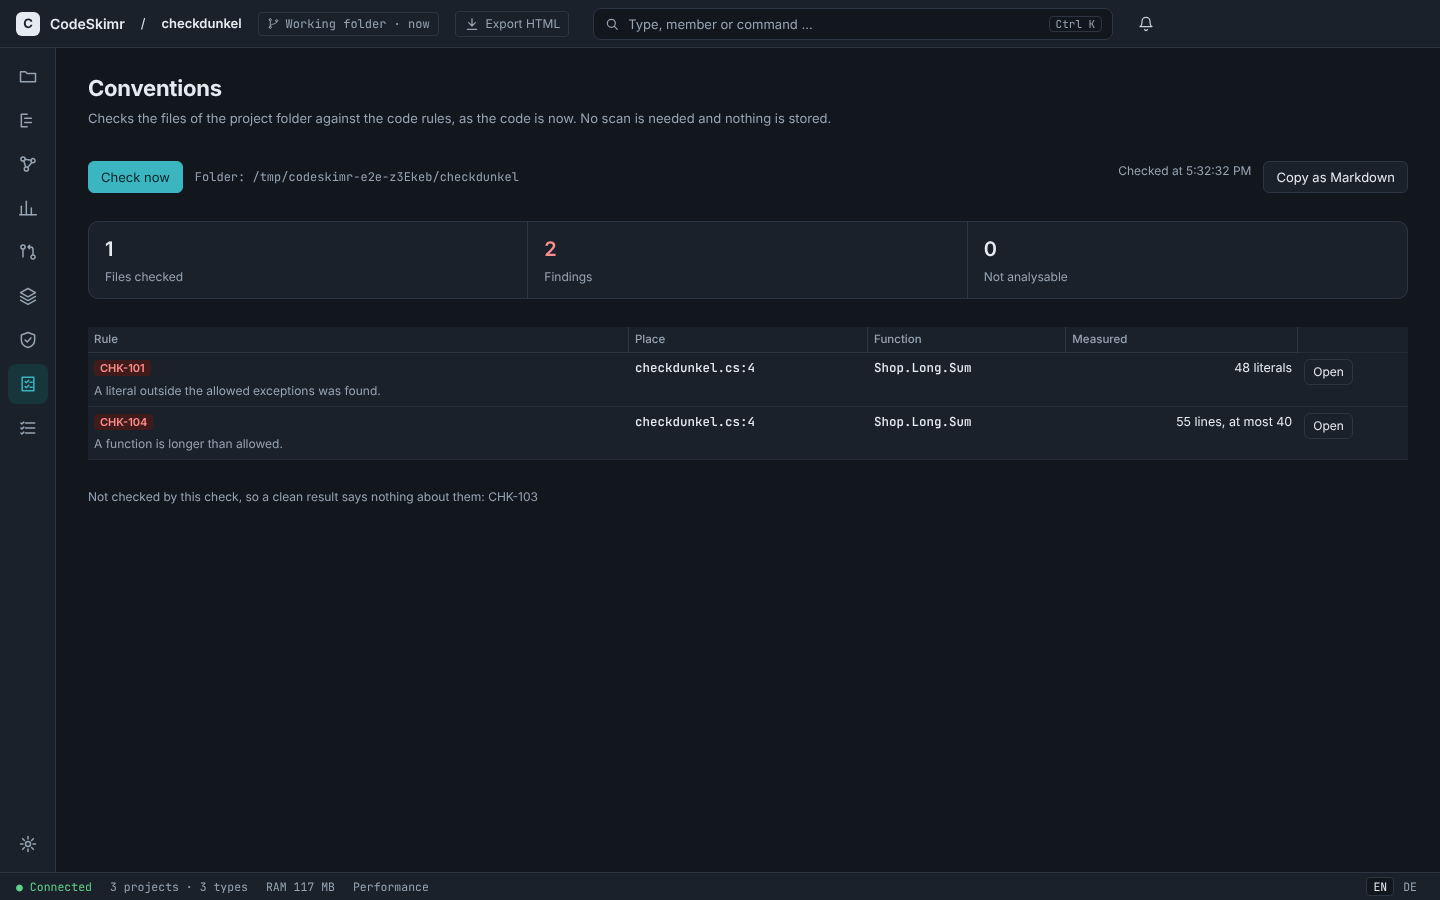
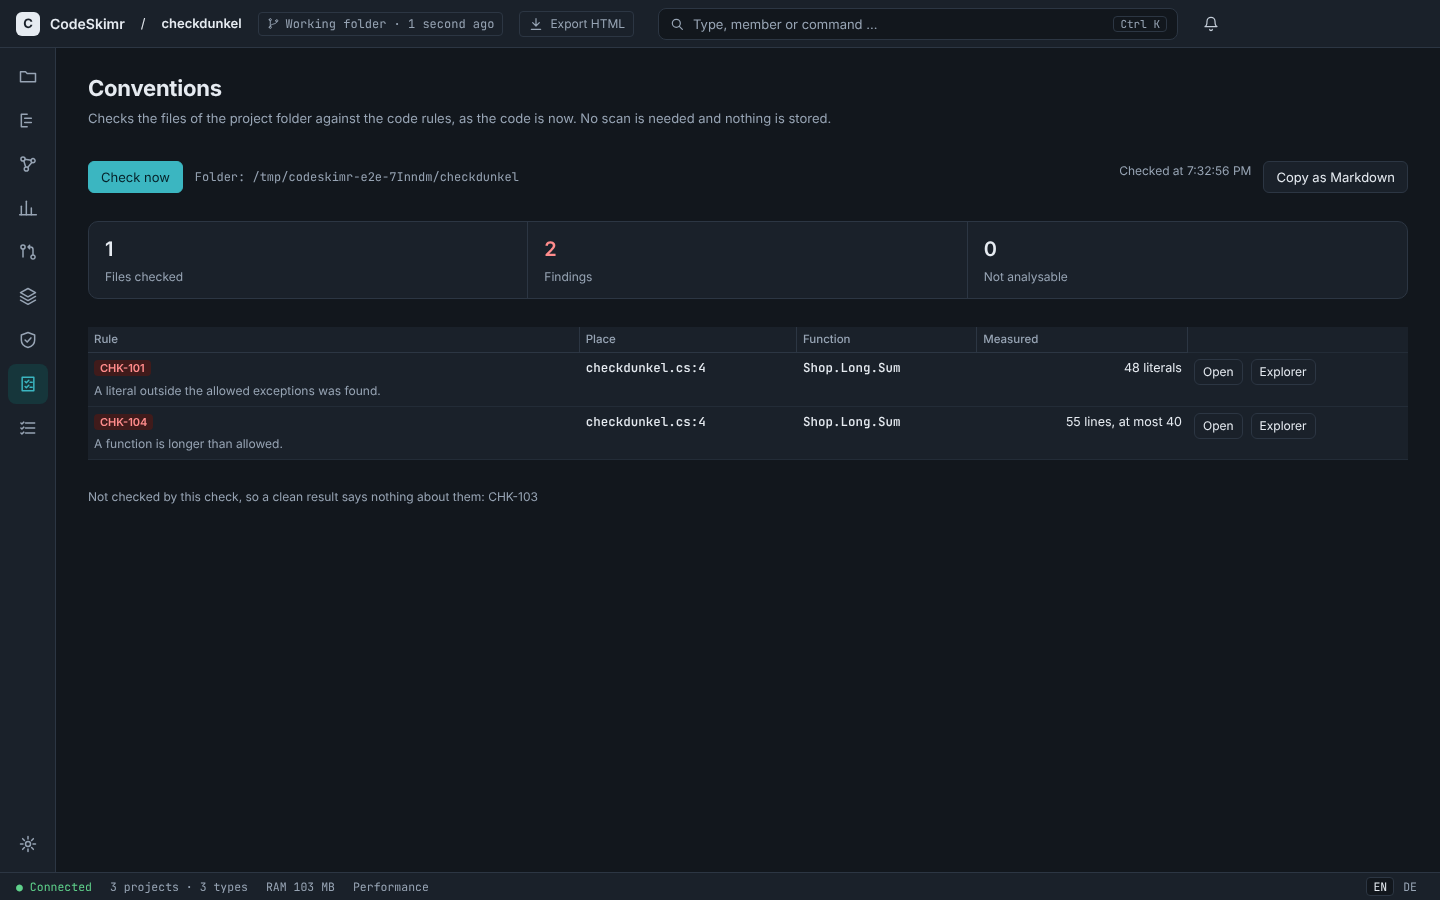
feat(ui): show the function of a convention finding in the explorer (#840)
<!-- claude-projects-attribution: {"github_login":"stacknoise"} -->
_Requested by **Anton** · [project
thread](https://claude.ai/code/project/chan_01BurfeyeHWcU615RsoB5poQ?thread=cmsg_01BurfeyeHWcU615RsoB5poQGk5hcRZr3DZwQZ8yi5fn66)_

## Was ändert sich?

Auf der Seite „Konventionen“ hat jeder Fund neben „Öffnen“ jetzt den
Knopf „Explorer“, der die Funktion im Explorer zeigt. Kennt der letzte
Scan die Funktion nicht (zum Beispiel in einer Datei, die nach dem Scan
geschrieben wurde), ist der Knopf ausgegraut, mit Tooltip („Nicht im
letzten Scan … Neu scannen“). Das ist die Fortsetzung von #835 (Seite
„Regeln“).

## Wie?

- `conventions.check` ergänzt jeden Fund um `symbol_ref` (Id und Art des
Symbols mit demselben qualifizierten Namen im neuesten Scan, sonst
`null`). Die Prüfung liest weiterhin die Dateien frisch; nur die
Zuordnung kommt aus dem Index, über dieselbe Funktion wie die Seite
„Regeln“ (`rules_symbols::resolve`).
- Der Sprung nutzt `showInExplorer` aus #835. Keine neue Abhängigkeit,
kein neuer Befehl.
- Texte in de und en, Handbuch (de/en) ergänzt.

## Grenze

Die Zuordnung geht über den qualifizierten Namen. Bei überladenen
Funktionen gleichen Namens zeigt der Explorer die mit der niedrigsten
Id.

## Geprüft

Zwei Rust-Tests (Fund in gescannter Datei mit Symbol, in neuer Datei
ohne), Web-Tests (932 grün), tsc, rustfmt, clippy.

---
_Generated by [Claude Code](https://claude.ai/code)_

---------

diff --git a/web/src/features/conventions/ConventionsScreen.tsx b/web/src/features/conventions/ConventionsScreen.tsx
@@ -12,6 +12,7 @@ import { ErrorDetails } from "../../shared/ui/ErrorDetails";
 import { Pill } from "../../shared/ui/Pill";
 import { TONE } from "../../shared/ui/consts";
 import { openPlaceInEditor } from "../explorer/editor";
+import { showInExplorer } from "../rules/jump";
 import { SOURCE_KIND } from "../projects/consts";
 import { count } from "../projects/format";
 import { projects } from "../projects/projects";
@@ -102,6 +103,32 @@ function OpenButton(props: { project: number; finding: Finding }) {
   );
 }
 
+/** The button that shows the function of a finding in the explorer. It is off if the last scan
+ * does not know the function, and says why. */
+function ExplorerButton(props: { project: number; finding: Finding }) {
+  const symbol = () => props.finding.symbol_ref;
+  return (
+    <button
+      type="button"
+      class={styles.small}
+      disabled={symbol() === null}
+      title={t(
+        symbol() === null
+          ? I18N_KEYS.CONVENTIONS_EXPLORER_GONE
+          : I18N_KEYS.CONVENTIONS_EXPLORER_HINT,
+      )}
+      onClick={() => {
+        const found = symbol();
+        if (found !== null) {
+          void showInExplorer(props.project, props.finding.symbol, found);
+        }
+      }}
+    >
+      {t(I18N_KEYS.CONVENTIONS_EXPLORER)}
+    </button>
+  );
+}
+
 function Row(props: { project: number; finding: Finding }) {
   return (
     <tr>
@@ -115,7 +142,10 @@ function Row(props: { project: number; finding: Finding }) {
       <td class={styles.mono}>{props.finding.symbol}</td>
       <td class={styles.num}>{measureText(props.finding, PLACE_SEPARATOR)}</td>
       <td>
-        <OpenButton project={props.project} finding={props.finding} />
+        <div class={styles.rowActions}>
+          <OpenButton project={props.project} finding={props.finding} />
+          <ExplorerButton project={props.project} finding={props.finding} />
+        </div>
       </td>
     </tr>
   );

diff --git a/web/src/features/conventions/ConventionsScreen.test.tsx b/web/src/features/conventions/ConventionsScreen.test.tsx
@@ -14,6 +14,7 @@ vi.mock("../../shared/editor/editor", async (original) => ({
 
 import { setLanguage } from "../../shared/i18n/i18n";
 import { openProject } from "../../shared/project/active";
+import { pendingFocus } from "../../shared/navigation/navigation";
 import { answer, fetchMock, useServerSession } from "../../tests/commands";
 import { ConventionsScreen } from "./ConventionsScreen";
 import { resetConventions } from "./conventions";
@@ -41,6 +42,7 @@ function finding(over: Partial<Finding>): Finding {
     literals: null,
     duplicate_of: null,
     similarity_percent: null,
+    symbol_ref: null,
     ...over,
   };
 }
@@ -141,6 +143,23 @@ describe("the screen Conventions", () => {
     await check();
     fireEvent.click(screen.getAllByRole("button", { name: "Open" })[0] as HTMLElement);
     expect(open).toHaveBeenCalledWith("vscode://file/work/app/src/a.rs:10");
+  });
+
+  it("shows the function of a finding in the explorer and switches the button off without a symbol", async () => {
+    serveCheck({
+      ...ANSWER,
+      findings: [
+        finding({ symbol_ref: { id: 42, kind: "class" } }),
+        finding({ path: "src/b.rs", symbol: "b::run" }),
+      ],
+    });
+    render(() => <ConventionsScreen />);
+    await check();
+    const [on, off] = screen.getAllByRole("button", { name: "Explorer" }) as HTMLElement[];
+    expect(off).toBeDisabled();
+    expect(off?.getAttribute("title")).toMatch(/Scan again/);
+    fireEvent.click(on as HTMLElement);
+    expect(pendingFocus()).toEqual({ type: 42, member: null, kind: null });
   });
 
   it("switches the open button off without an editor and says why", async () => {

diff --git a/web/src/features/conventions/types.ts b/web/src/features/conventions/types.ts
@@ -1,3 +1,5 @@
+import type { SymbolRef } from "../rules/types";
+
 /** A place of a function: file below the project, name, first and last line (counted from 1). */
 export interface Place {
   path: string;
@@ -18,6 +20,9 @@ export interface Finding extends Place {
   literals: number | null;
   duplicate_of: Place | null;
   similarity_percent: number | null;
+  /** The symbol of the newest scan with this qualified name, `null` if the scan has none (a file
+   * written after it). */
+  symbol_ref: SymbolRef | null;
 }
 
 /** A file that could not be analysed, with the code of the reason. */

diff --git a/web/src/shared/i18n/keys.ts b/web/src/shared/i18n/keys.ts
@@ -817,6 +817,9 @@ export const I18N_KEYS = {
   CONVENTIONS_COL_MEASURE_HINT: "conventions-col-measure-hint",
   CONVENTIONS_OPEN: "conventions-open",
   CONVENTIONS_OPEN_HINT: "conventions-open-hint",
+  CONVENTIONS_EXPLORER: "conventions-explorer",
+  CONVENTIONS_EXPLORER_GONE: "conventions-explorer-gone",
+  CONVENTIONS_EXPLORER_HINT: "conventions-explorer-hint",
   CONVENTIONS_OPEN_UNAVAILABLE: "conventions-open-unavailable",
   CONVENTIONS_MEASURE_LINES: "conventions-measure-lines",
   CONVENTIONS_MEASURE_COMPLEXITY: "conventions-measure-complexity",

diff --git a/web/src/features/conventions/ConventionsScreen.module.css b/web/src/features/conventions/ConventionsScreen.module.css
@@ -60,6 +60,11 @@
     font-size: 12px;
 }
 
+.rowActions {
+    display: flex;
+    gap: var(--space-8);
+}
+
 .primary:disabled,
 .secondary:disabled,
 .small:disabled {

diff --git a/crates/app/src/ui_commands/conventions.rs b/crates/app/src/ui_commands/conventions.rs
@@ -11,17 +11,21 @@ use std::sync::{Arc, Mutex, PoisonError};
 use codeskimr_application::{
     access,
     error::CodedError,
-    ports::ProjectRepository,
+    ports::{CodeIndex, ProjectRepository},
     registry::{Command, CommandDescriptor, CommandId, Request},
 };
 use codeskimr_cli::GlobalOptions;
-use codeskimr_codes::ErrorCode;
-use codeskimr_domain::{Permission, ProjectId, ProjectSource};
+use codeskimr_codes::{Coded, ErrorCode};
+use codeskimr_domain::{Permission, ProjectId, ProjectSource, SnapshotId};
 use codeskimr_mcp::conventions_answer;
 use serde::Deserialize;
-use serde_json::Value;
+use serde_json::{Value, json};
 
-use super::consts::{CONVENTIONS_CHECK, CONVENTIONS_CHECK_DESCRIPTION, CONVENTIONS_CHECK_TITLE};
+use super::consts::{
+    CONVENTIONS_CHECK, CONVENTIONS_CHECK_DESCRIPTION, CONVENTIONS_CHECK_TITLE,
+    CONVENTIONS_FINDINGS, CONVENTIONS_SYMBOL, CONVENTIONS_SYMBOL_REF,
+};
+use super::rules_symbols::resolve;
 use crate::check::check_folder;
 use crate::locations::Locations;
 
@@ -37,6 +41,8 @@ pub struct CheckInput {
 pub struct ConventionsPorts {
     /// The registered projects.
     pub(super) projects: Arc<dyn ProjectRepository>,
+    /// The index, which names the symbol of the newest scan that a finding stands in.
+    pub(super) index: Arc<dyn CodeIndex>,
     /// The options of the command line, which the configuration is resolved with.
     pub(super) global: GlobalOptions,
     /// Where the language packs and the settings are.
@@ -129,6 +135,38 @@ impl Command for ConventionsCheck {
             *request.principal,
             (&self.ports.global, &self.ports.locations),
         )?;
-        conventions_answer(checked.report, checked.max_limit).map_err(CodedError::caused_by)
+        let mut answer =
+            conventions_answer(checked.report, checked.max_limit).map_err(CodedError::caused_by)?;
+        let snapshot = self
+            .ports
+            .index
+            .latest_snapshot(project.id)
+            .inspect_err(|error| tracing::warn!(code = error.code().id()))
+            .ok()
+            .flatten()
+            .map(|snapshot| snapshot.id);
+        attach_symbols(self.ports.index.as_ref(), snapshot, &mut answer);
+        Ok(answer)
+    }
+}
+
+/// Sets `symbol_ref` of every finding to the symbol of the newest scan with the same qualified
+/// name, so the screen can show the function in the explorer. It is `null` if there is no scan, if
+/// the index could not be read (the check itself is not lost for that) or if the scan has no such
+/// symbol, for instance for a file written after it.
+fn attach_symbols(index: &dyn CodeIndex, snapshot: Option<SnapshotId>, answer: &mut Value) {
+    let Some(findings) = answer
+        .get_mut(CONVENTIONS_FINDINGS)
+        .and_then(Value::as_array_mut)
+    else {
+        return;
+    };
+    for finding in findings {
+        let found = finding
+            .get(CONVENTIONS_SYMBOL)
+            .and_then(Value::as_str)
+            .zip(snapshot)
+            .and_then(|(name, snapshot)| resolve(index, snapshot, name));
+        finding[CONVENTIONS_SYMBOL_REF] = found.map_or(Value::Null, |found| json!(found));
     }
 }

diff --git a/crates/app/src/ui_commands/conventions_tests.rs b/crates/app/src/ui_commands/conventions_tests.rs
@@ -21,6 +21,16 @@ fn long_method(lines: u32) -> String {
     )
 }
 
+/// The finding of the method that is over the limit of lines.
+fn long_finding(answer: &Value) -> &Value {
+    answer["findings"]
+        .as_array()
+        .unwrap()
+        .iter()
+        .find(|finding| finding["code"] == "CHK-104")
+        .unwrap_or_else(|| panic!("a finding for the long method: {answer}"))
+}
+
 fn check(fixture: &Fixture, project: u64) -> Value {
     fixture
         .call("conventions.check", json!({ "project": project }))
@@ -34,12 +44,11 @@ fn a_function_over_the_limit_is_found_in_a_file_no_scan_has_seen() {
     let app = fixture.root.path().join("app");
     fs::write(app.join("Long.cs"), long_method(60)).unwrap();
     let answer = check(&fixture, project);
-    let found = answer["findings"]
-        .as_array()
-        .unwrap()
-        .iter()
-        .find(|finding| finding["code"] == "CHK-104")
-        .unwrap_or_else(|| panic!("a finding for the long method: {answer}"));
+    let found = long_finding(&answer);
+    assert!(
+        found["symbol_ref"].is_null(),
+        "a file no scan has seen: {found}"
+    );
     assert_eq!(found["path"], "Long.cs");
     assert_eq!(found["symbol"], "Demo.Long.Sum");
     assert!(found["lines"].as_u64().unwrap() > found["max_lines"].as_u64().unwrap());
@@ -92,4 +101,32 @@ fn a_project_is_checked_by_one_run_at_a_time() {
     assert!(runs.begin(8).is_ok(), "another project is not held up");
     drop(first);
     assert!(runs.begin(7).is_ok(), "the project is free again");
+}
+
+#[test]
+fn a_finding_in_a_scanned_file_names_its_symbol() {
+    let fixture = Fixture::new();
+    fs::write(
+        fixture.root.path().join("app").join("Long.cs"),
+        long_method(60),
+    )
+    .unwrap();
+    let project = fixture.scanned();
+    let answer = check(&fixture, project);
+    let found = long_finding(&answer);
+    assert!(found["symbol_ref"]["id"].is_u64(), "{found}");
+    assert_eq!(found["symbol_ref"]["kind"], "method", "{found}");
+}
+
+#[test]
+fn without_a_scan_every_finding_has_no_symbol_but_the_check_still_runs() {
+    let fixture = Fixture::new();
+    fs::write(
+        fixture.root.path().join("app").join("Long.cs"),
+        long_method(60),
+    )
+    .unwrap();
+    fixture.registered(9);
+    let answer = check(&fixture, 9);
+    assert!(long_finding(&answer)["symbol_ref"].is_null(), "{answer}");
 }

diff --git a/crates/app/src/ui_commands/consts.rs b/crates/app/src/ui_commands/consts.rs
@@ -584,3 +584,9 @@ pub const CONVENTIONS_CHECK: &str = "conventions.check";
 pub const CONVENTIONS_CHECK_TITLE: &str = i18n::COMMAND_CONVENTIONS_CHECK_TITLE;
 /// Description key of `conventions.check`.
 pub const CONVENTIONS_CHECK_DESCRIPTION: &str = i18n::COMMAND_CONVENTIONS_CHECK_DESCRIPTION;
+/// Member of the answer of `conventions.check` that holds the findings.
+pub const CONVENTIONS_FINDINGS: &str = "findings";
+/// Member of a finding that holds the qualified name of its function.
+pub const CONVENTIONS_SYMBOL: &str = "symbol";
+/// Member that `conventions.check` adds to a finding: the symbol of the newest scan, or `null`.
+pub const CONVENTIONS_SYMBOL_REF: &str = "symbol_ref";

diff --git a/crates/app/src/ui_commands/rules_symbols.rs b/crates/app/src/ui_commands/rules_symbols.rs
@@ -12,7 +12,11 @@ use super::rules::{RuleOut, SymbolRef};
 /// Looks one name up in the snapshot. A name that no symbol carries (a namespace that only the
 /// layers know, a symbol the scan did not see) or a failed read gives `None`: the name is then
 /// shown as plain text.
-fn resolve(index: &dyn CodeIndex, snapshot: SnapshotId, name: &str) -> Option<SymbolRef> {
+pub(super) fn resolve(
+    index: &dyn CodeIndex,
+    snapshot: SnapshotId,
+    name: &str,
+) -> Option<SymbolRef> {
     let key = SymbolKey::Qualified(QualifiedName::new(name).ok()?);
     let found = index
         .symbol(snapshot, &key)

diff --git a/crates/app/src/ui_commands/mod.rs b/crates/app/src/ui_commands/mod.rs
@@ -378,6 +378,7 @@ fn register_views(
         ConventionsCheck {
             ports: Arc::new(ConventionsPorts {
                 projects: catalog.clone(),
+                index: catalog.clone(),
                 global: global.clone(),
                 locations: locations.clone(),
                 running: Runs::default(),

diff --git a/docs/ui.md b/docs/ui.md
@@ -169,7 +169,7 @@ Screenshots (1440 x 900): [Hell](screenshots/status-hell.png), [Petrol](screensh
 
 ## Conventions (screen "Conventions", ADR 0116, mock 44)
 
-The convention check of the console (`codeskimr check`) for the project that is open, as the command `conventions.check` (right to read source, so with the token). It takes only the project id: the folder is the one the project was registered with, and a Git project is refused (`PRJ-101`); its button is switched off with the reason as tooltip. One check runs per project at a time (`PRJ-304` for a second one), and the list holds to `mcp.max_limit` findings with a note how many more there are. The result shows three figures (files checked, findings, files not analysed) and a table of the findings (rule, place, function, measure). Every head sorts the table when pressed and every column has its handle for the width (`shared/table`); a number column starts with the largest. "Open" jumps to the place in the editor of the settings and is switched off without one. "Copy as Markdown" is switched off before the first result. Below the table: the files that could not be analysed and the rules that this version does not check yet, so that a clean result is not read as more than it is. The result is dropped when the project changes.
+The convention check of the console (`codeskimr check`) for the project that is open, as the command `conventions.check` (right to read source, so with the token). It takes only the project id: the folder is the one the project was registered with, and a Git project is refused (`PRJ-101`); its button is switched off with the reason as tooltip. One check runs per project at a time (`PRJ-304` for a second one), and the list holds to `mcp.max_limit` findings with a note how many more there are. The result shows three figures (files checked, findings, files not analysed) and a table of the findings (rule, place, function, measure). Every head sorts the table when pressed and every column has its handle for the width (`shared/table`); a number column starts with the largest. "Open" jumps to the place in the editor of the settings and is switched off without one. "Explorer" shows the function in the explorer: `conventions.check` adds `symbol_ref` (`id` and `kind`) to every finding, found by the qualified name in the newest scan (with overloads of the same name the lowest id), or `null` if there is no scan, the index cannot be read or the scan has no such function (a file written after it); the button is then off, with the reason as tooltip. "Copy as Markdown" is switched off before the first result. Below the table: the files that could not be analysed and the rules that this version does not check yet, so that a clean result is not read as more than it is. The result is dropped when the project changes.
 
 ## Visual and keyboard checks (WP-43)
 

diff --git a/docs/server.md b/docs/server.md
@@ -121,7 +121,7 @@ The server holds at most 256 connections; a further client waits in the backlog 
 
 `log.status` (permission `read_source`, so it needs the token like the source view; no input) answers the log for the tab Diagnosis of the settings: `level` and `default_level` (`off`, `warn`, `info`, `debug` or `trace`), `levels`, `adjustable` (`false` if another subscriber owns the log), `file` (the path of `logs/codeskimr.log` in the data folder, `null` if it could not be opened), `size_bytes`, `max_file_bytes` (10 MB, then the file is renamed to `.1` and a new one starts), `files_kept` (5), `resets_in_seconds` (a level other than the default ends after 24 hours) and `can_open_folder`. `log.set_level` (`manage`, input `level`) changes the level of the running program at once and answers the status; any other word is `API-101`. `log.tail` (`read_source`, input `lines`, at most 2000) gives the last lines of the file, oldest first. `log.clear` (`manage`) empties the file and removes the old ones, `APP-607` if there is none. `log.open_folder` (`manage`) opens the folder with the program of the operating system, `APP-606` where nobody sits at the machine. No command takes a path. Every line in the file went through the redaction of blueprint S-01 (ADR 0115).
 
-`conventions.check` (permission `read_source`, so it needs the token like the source view; input `project`) is the convention check of `codeskimr check` for the screen "Conventions" (ADR 0116). It reads the folder the project was registered with, analyses the files afresh with the configuration of that folder and stores nothing. The answer is the answer of the MCP tool `check_conventions` without a limit (`files_checked`, `total`, `findings`, `unchecked`, `unmatched`, `not_checked`). A Git project answers `PRJ-101`; no command takes a path.
+`conventions.check` (permission `read_source`, so it needs the token like the source view; input `project`) is the convention check of `codeskimr check` for the screen "Conventions" (ADR 0116). It reads the folder the project was registered with, analyses the files afresh with the configuration of that folder and stores nothing. The answer is the answer of the MCP tool `check_conventions` without a limit (`files_checked`, `total`, `findings`, `unchecked`, `unmatched`, `not_checked`), with one more member per finding, `symbol_ref` (`id` and `kind` of the symbol of the newest scan with the finding's qualified name, the lowest id if overloads share it, or `null` if the scan has none or cannot be read), so that the screen can show the function in the explorer. A Git project answers `PRJ-101`; no command takes a path.
 
 ## Configuration
 
